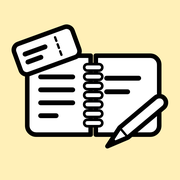
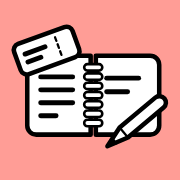
ホーム画面アイコンを変更(eventmemory=クリーム、eventhistory=コーラル赤) キャッシュ更新用に?v=2を付与
Claude-Session: https://claude.ai/code/session_01HsSAZ6aGZyHqQxkrk94PRW

diff --git a/index.html b/index.html
@@ -8,8 +8,8 @@
 <meta name="apple-mobile-web-app-status-bar-style" content="default">
 <meta name="apple-mobile-web-app-title" content="イベント参加記録">
 <meta name="theme-color" content="#1f2330">
-<link rel="apple-touch-icon" sizes="180x180" href="apple-touch-icon.png">
-<link rel="icon" type="image/png" href="apple-touch-icon.png">
+<link rel="apple-touch-icon" sizes="180x180" href="apple-touch-icon.png?v=2">
+<link rel="icon" type="image/png" href="apple-touch-icon.png?v=2">
 <title>イベント参加記録</title>
 <link rel="stylesheet" href="https://fonts.googleapis.com/css2?family=Zen+Kaku+Gothic+New:wght@400;500;700&display=swap">
 <style>
@@ -423,7 +423,7 @@ function renderSettings(){
       <button class="btn danger" id="wipe">全データを削除</button>
       <div class="status" id="wst"></div>
     </div>
-    <div class="hint" style="text-align:center">記録件数: ${lives.length} ／ 版: 1016U</div>
+    <div class="hint" style="text-align:center">記録件数: ${lives.length} ／ 版: 1016V</div>
   `;
   if(dataMsg){ const d = $(dataMsg.id || "#dst"); d.className = "status " + dataMsg.cls; d.textContent = dataMsg.text; }
   $("#export").onclick = exportJSON;
